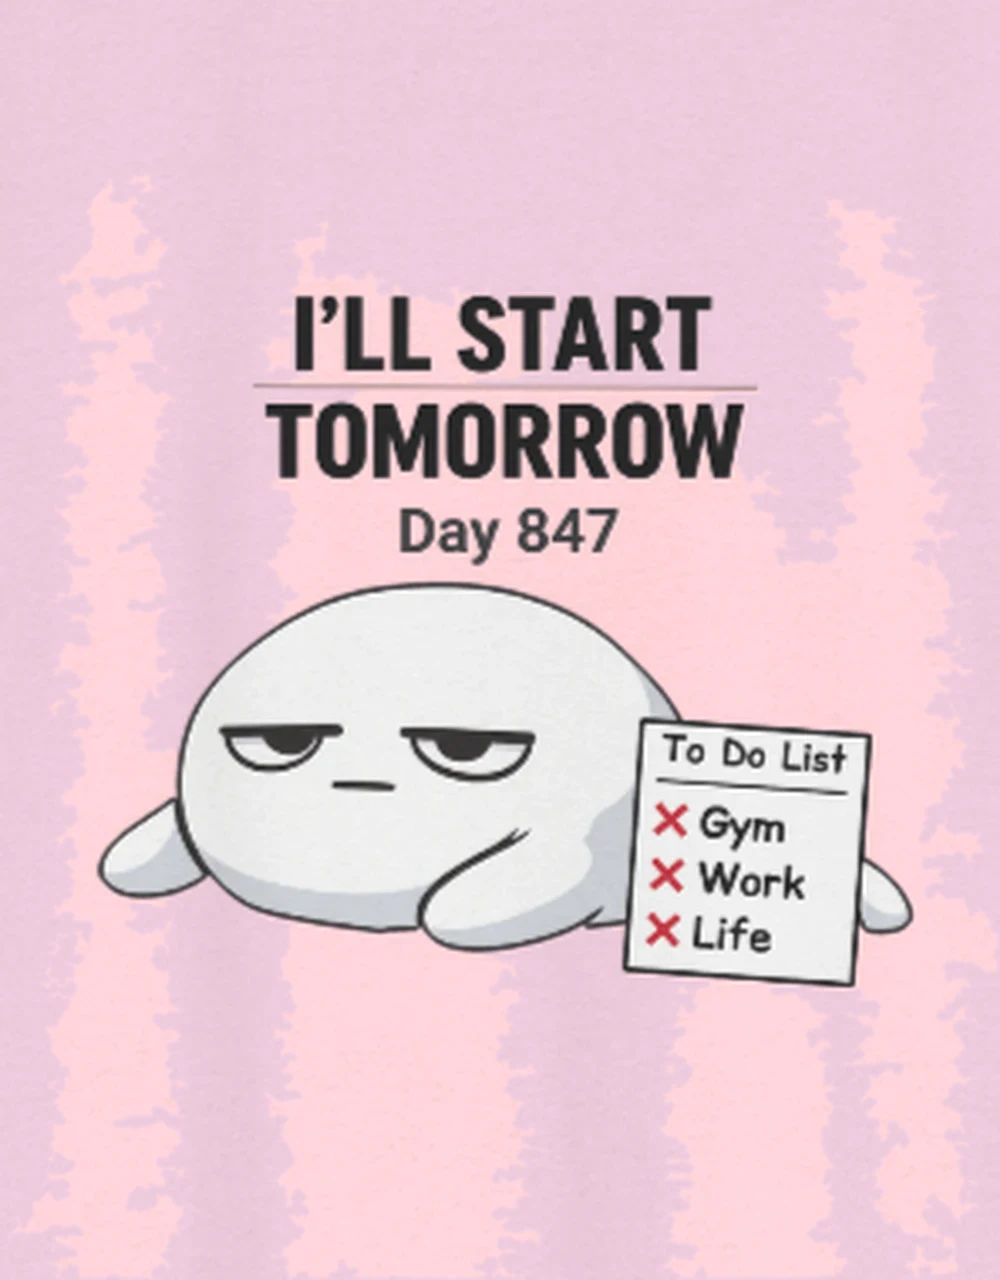
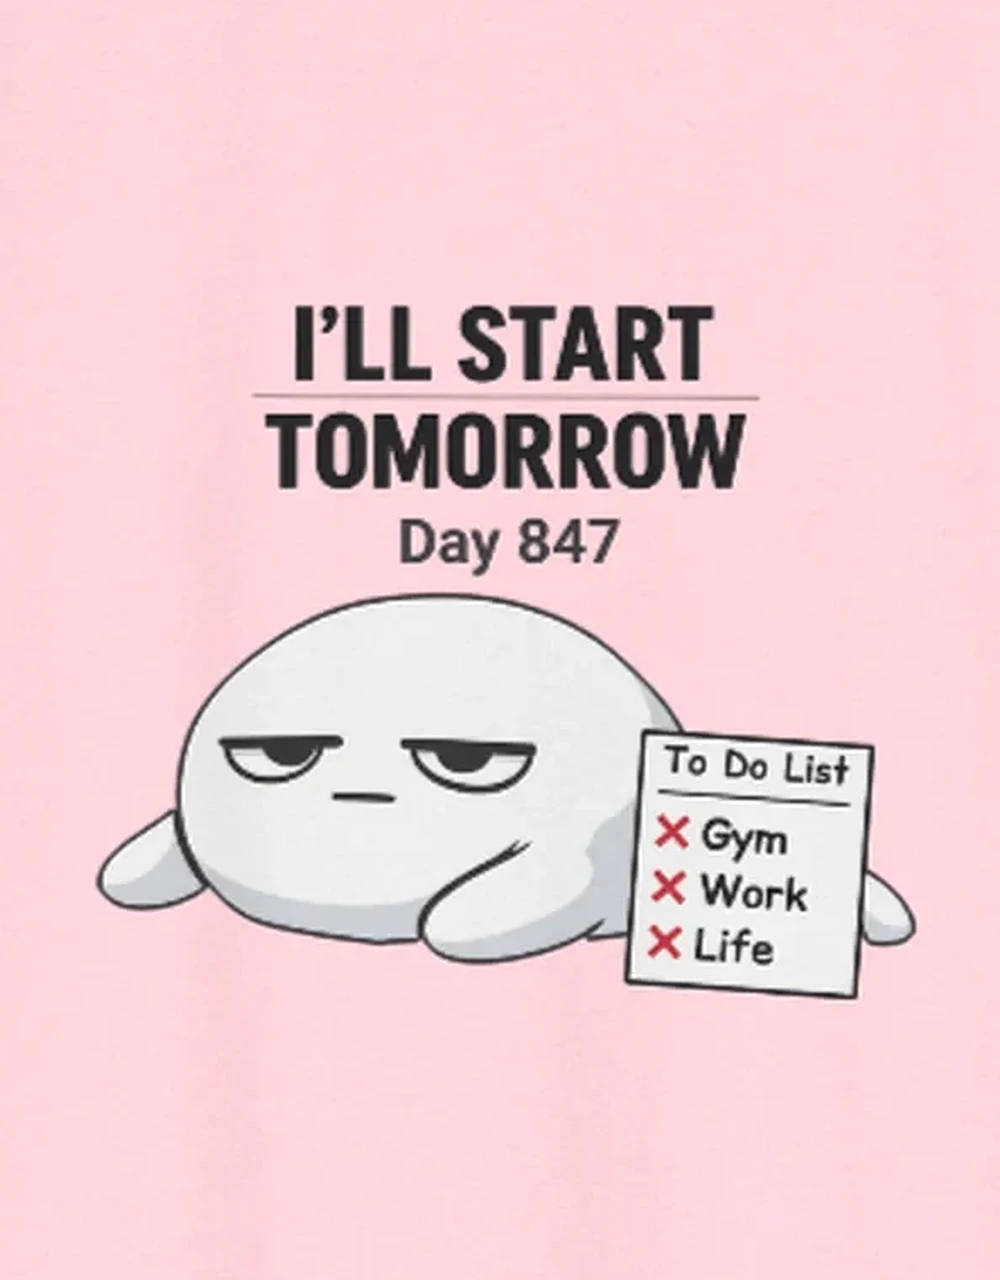
Fix product photos: Dino Family of 4 missing kid tees (pink/red/royal blue Babysaurus 1 & 2), no more overlapping corner in 2-person sets, clean I'll Start Tomorrow close-ups for light colours
Claude-Session: https://claude.ai/code/session_01FrjUq33jLJ3R9hqF3j51cb

Changed region(s): [[0.093, 0.2188, 0.93, 0.7812]]

diff --git a/index.html b/index.html
@@ -1120,12 +1120,12 @@ var REVIEWS = [
     var ms=curSet().members, key=ms.map(function(m){return m+':'+(isMix()?(mcol[m]||defCol(m)):colour.c)+':'+(kfit[m]||'');}).join('|')+'|'+nameK;
     if(key===compKey) return; compKey=key;
     var srcs=ms.map(function(m){return memberImg(m,isMix()?(mcol[m]||defCol(m)):colour.c);}), imgs=[], left=srcs.length;
-    srcs.forEach(function(u,i){var im=new Image(); im.onload=im.onerror=function(){ if(--left===0) draw(); }; im.src=u; imgs[i]=im;});
+    srcs.forEach(function(u,i){var im=new Image(), tried=false; im.onload=function(){ if(--left===0) draw(); }; im.onerror=function(){ if(!tried && /-n[12]\.webp$/.test(u)){ tried=true; im.src=u.replace(/-n[12]\.webp$/,'.webp'); return; } if(--left===0) draw(); }; im.src=u; imgs[i]=im;});
     function draw(){
       if(key!==compKey) return;
       var cv=document.createElement('canvas'); cv.width=1024; cv.height=1280; var x=cv.getContext('2d');
       x.fillStyle='#F2F2F2'; x.fillRect(0,0,1024,1280);
-      var slots=ms.length===4?[[0,10,512,640],[512,10,512,640],[40,660,460,575],[524,660,460,575]]:ms.length===3?[[0,40,512,640],[512,40,512,640],[256,620,512,640]]:[[0,0,640,800],[384,480,640,800]];
+      var slots=ms.length===4?[[0,10,512,640],[512,10,512,640],[40,660,460,575],[524,660,460,575]]:ms.length===3?[[0,40,512,640],[512,40,512,640],[256,620,512,640]]:[[-30,190,600,750],[510,430,480,600]];
       imgs.forEach(function(im,i){ if(im.naturalWidth){ var sl=slots[i]; x.drawImage(im,sl[0],sl[1],sl[2],sl[3]); }});
       try{ $('pImg').src=cv.toDataURL('image/webp',0.85); }catch(e){}
     }
